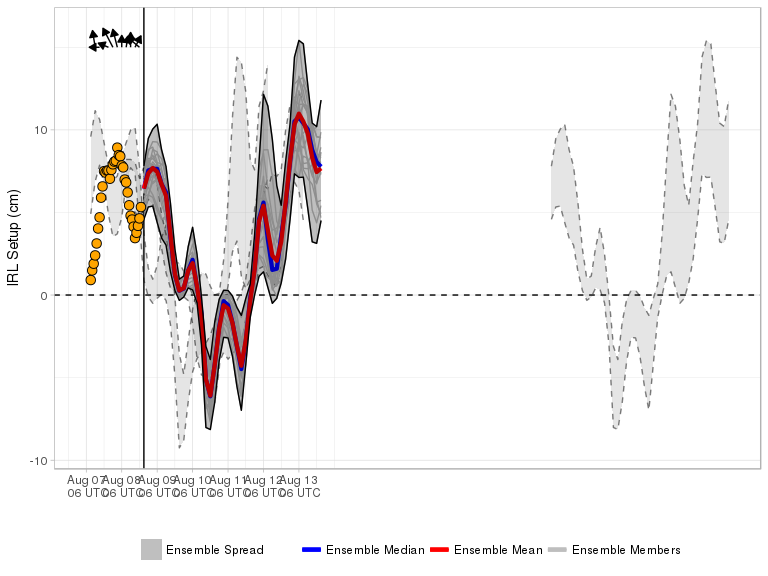
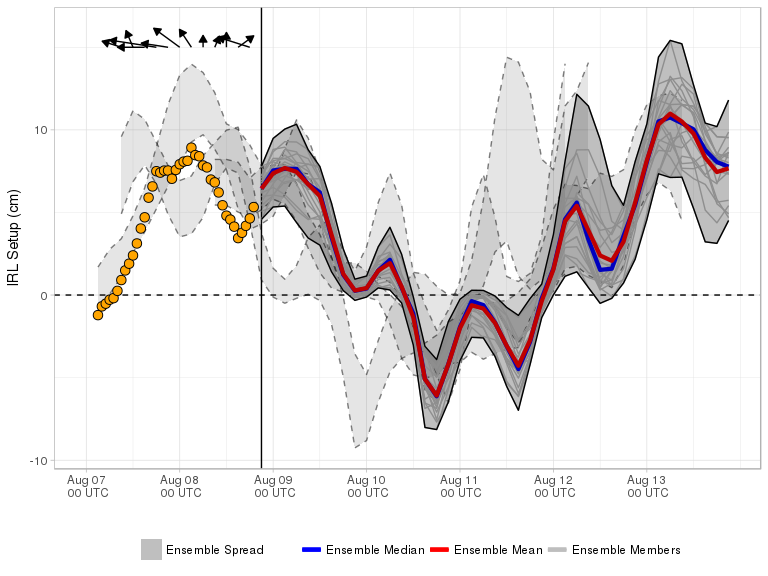
Forecast Update

diff --git a/docs/index.md b/docs/index.md
@@ -3,7 +3,7 @@ Current Forecast 2018-08-08, Cycle 12UTC
 
 [![](img/raw_setup.png)](https://fit-winds.github.io/IRLSetup/img/raw_setup.png)
 
-> Forecast valid 2018-08-08 16:08:08.
+> Forecast valid 2018-08-08 16:16:54.
 
 Explanation
 -----------
